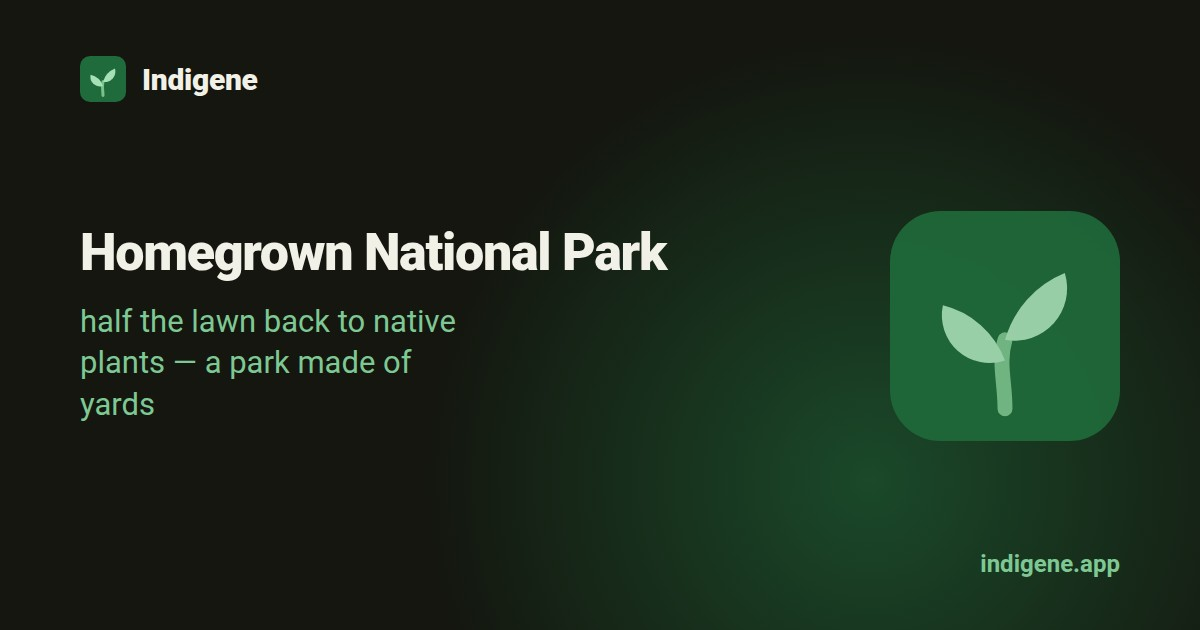
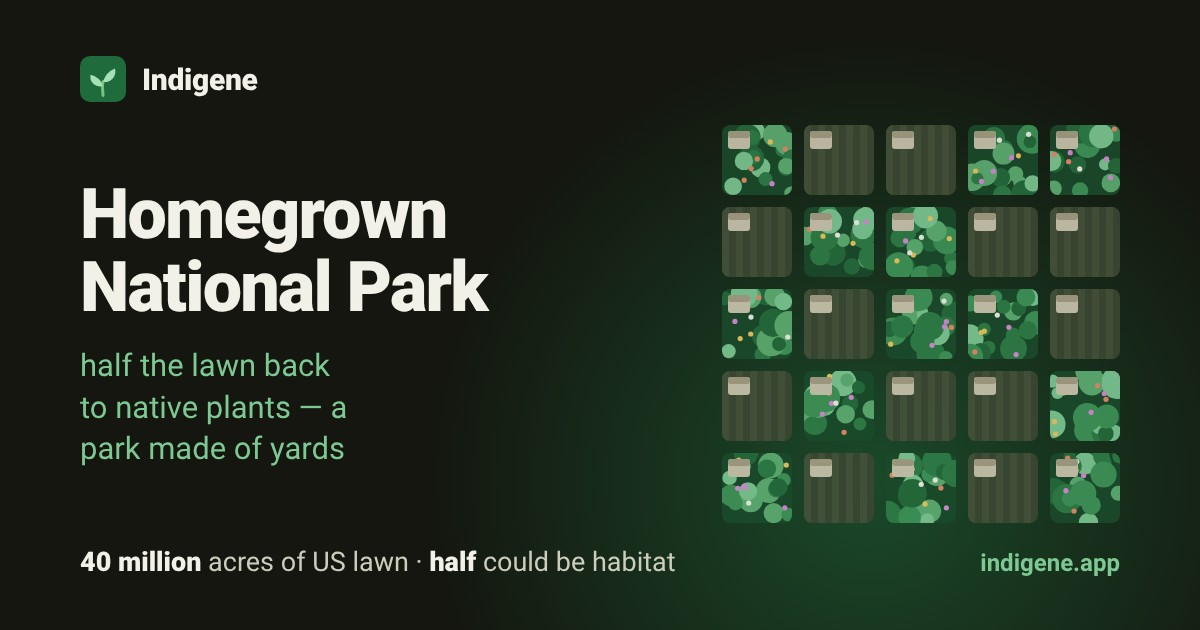
Give the Homegrown National Park page its own share picture
The page card was the generic title-and-mark layout. It now draws the
idea: a street of 25 yards from above, half mown lawn and half native
planting, with the page's own figures (40M acres of US lawn, half could
be habitat). gen-page-cards.mjs takes an optional per-card drawing and
title size; the other cards are untouched.

Claude-Session: https://claude.ai/code/session_018RUaNoVT38g6qDv5XiTqjG

diff --git a/changelog.d/epic-clarke-jcmsci.md b/changelog.d/epic-clarke-jcmsci.md
@@ -1,0 +1,5 @@
+### Changed
+
+- A link to [Homegrown National Park](https://indigene.app/homegrown) now
+  previews with its own picture: a street of yards from above, half still
+  lawn and half gone native.
